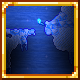
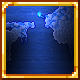
Update to v0.5.3

diff --git a/Config/LightingConfig.cs b/Config/LightingConfig.cs
@@ -15,7 +15,7 @@ namespace FancyLighting.Config
 
         [DefaultValue(true)]
         [Label("Enable Smooth Lighting")]
-        [Tooltip("Toggles whether or not to use smooth lighting\nIf disabled, vanilla lighting visuals are used\nRequires lighting to be set to color")]
+        [Tooltip("Toggles whether to use smooth lighting\nIf disabled, vanilla lighting visuals are used\nRequires lighting to be set to color")]
         public bool UseSmoothLighting
         {
             get
@@ -32,7 +32,7 @@ namespace FancyLighting.Config
 
         [DefaultValue(true)]
         [Label("Blur Light Map")]
-        [Tooltip("Toggles whether or not to blur the light map\nApplies a per-tile blur to the light map before rendering\nSmooths jagged corners in the light map\nDisabling this setting may slightly increase performance")]
+        [Tooltip("Toggles whether to blur the light map\nApplies a per-tile blur to the light map before rendering\nSmooths sharp light transitions\nDisabling this setting may slightly increase performance")]
         public bool UseLightMapBlurring
         {
             get
@@ -70,8 +70,8 @@ namespace FancyLighting.Config
         [DefaultValue(0)]
         [Slider]
         [DrawTicks]
-        [Label("Normal Maps Strength")]
-        [Tooltip("Controls the strength of a simulated normal maps effect\nWhen not 0, tiles have simulated normal maps and appear bumpy\nSet to 0 to disable")]
+        [Label("Simulated Normal Maps Strength")]
+        [Tooltip("Controls the strength of simulated normal maps\nWhen not 0, tiles have simulated normal maps and appear bumpy\nSet to 0 to disable")]
         public int NormalMapsStrength
         {
             get
@@ -87,8 +87,25 @@ namespace FancyLighting.Config
         private int _normalMapsStrength;
 
         [DefaultValue(false)]
+        [Label("Use Higher-Quality Normal Maps")]
+        [Tooltip("Toggles between regular and higher-quality simulated normal map shaders\nWhen enabled, uses a higher-quality normal map simulation\nMay reduce performance when enabled")]
+        public bool QualityNormalMaps
+        {
+            get
+            {
+                return _useQualityNormalMaps;
+            }
+            set
+            {
+                _useQualityNormalMaps = value;
+                ConfigPreset = Preset.CustomPreset;
+            }
+        }
+        private bool _useQualityNormalMaps;
+
+        [DefaultValue(false)]
         [Label("Use Fine Normal Maps")]
-        [Tooltip("Toggles between coarse and fine normal maps\nCoarse normal maps have 2x2 resolution, fine 1x1\nRecommended to enable if using HD textures")]
+        [Tooltip("Toggles between coarse and fine simulated normal maps\nCoarse normal maps have 2x2 resolution, and fine 1x1\nRecommended to enable when using HD textures")]
         public bool FineNormalMaps
         {
             get
@@ -125,7 +142,7 @@ namespace FancyLighting.Config
 
         [DefaultValue(true)]
         [Label("Enable Ambient Occlusion")]
-        [Tooltip("Toggles whether or not to use ambient occlusion\nIf enabled, shadows are added around the edges of foreground tiles in front of background walls\nRequires lighting to be set to color")]
+        [Tooltip("Toggles whether to use ambient occlusion\nIf enabled, tiles produce shadows in front of walls\nRequires lighting to be set to color")]
         public bool UseAmbientOcclusion
         {
             get
@@ -180,7 +197,7 @@ namespace FancyLighting.Config
         [Slider]
         [DrawTicks]
         [Label("Ambient Occlusion Radius")]
-        [Tooltip("Controls the radius of blur used in ambient occlusion\nHigher values correspond to a larger blur radius\nHigher values may degrade performance")]
+        [Tooltip("Controls the radius of blur used in ambient occlusion\nHigher values correspond to a larger blur radius\nHigher values may reduce performance")]
         public int AmbientOcclusionRadius
         {
             get
@@ -221,7 +238,7 @@ namespace FancyLighting.Config
 
         [DefaultValue(true)]
         [Label("Enable Fancy Lighting Engine")]
-        [Tooltip("Toggles whether or not to use a modified lighting engine\nWhen enabled, light is spread more accurately\nShadows should face away from light sources and be more noticeable\nPerformance is significantly reduced in areas with more light sources\nRequires lighting to be set to color")]
+        [Tooltip("Toggles whether to use a modified lighting engine\nWhen enabled, light is spread more accurately\nShadows should face away from light sources and be more noticeable\nPerformance is significantly reduced in areas with more light sources\nRequires lighting to be set to color")]
         public bool UseFancyLightingEngine
         {
             get
@@ -238,7 +255,7 @@ namespace FancyLighting.Config
 
         [DefaultValue(true)]
         [Label("Temporal Optimization")]
-        [Tooltip("Toggles whether or not to use temporal optimization with the fancy lighting engine\nWhen enabled, data from the previous update is used to optimize lighting during the current update\nMakes lighting quicker in more intensly lit areas\nMay sometimes result in a slightly lowered lighting quality")]
+        [Tooltip("Toggles whether to use temporal optimization with the fancy lighting engine\nWhen enabled, uses data from the previous update to optimize lighting calculations\nMakes lighting quicker in more intensly lit areas\nMay sometimes cause lighting quality to be slightly reduced")]
         public bool FancyLightingEngineUseTemporal
         {
             get
@@ -255,7 +272,7 @@ namespace FancyLighting.Config
 
         [DefaultValue(false)]
         [Label("Brighter Lighting")]
-        [Tooltip("Toggles whether or not to make lighting slightly brighter\nWhen disabled, lighting is slightly darker than when using the vanilla lighting engine\nSlightly degrades performance when enabled")]
+        [Tooltip("Toggles whether to make lighting slightly brighter\nWhen disabled, lighting is slightly darker than with vanilla lighting\nMay reduce performance when enabled")]
         public bool FancyLightingEngineMakeBrighter
         {
             get
@@ -296,7 +313,7 @@ namespace FancyLighting.Config
 
         [DefaultValue(true)]
         [Label("Enable Fancy Sky Colors")]
-        [Tooltip("Toggles whether or not to use modified sky colors\nIf disabled, vanilla sky colors are used instead")]
+        [Tooltip("Toggles whether to use modified sky colors\nIf disabled, vanilla sky colors are used instead")]
         public bool UseCustomSkyColors
         {
             get
@@ -336,12 +353,10 @@ namespace FancyLighting.Config
         // Presets
 
         [Header("Presets")]
-        // I really wish enums would use a dropdown menu UI, but sliders are used instead
-        // I couldn't find a dropdown menu config UI built into tModLoader
         [DrawTicks]
         [DefaultValue(Preset.DefaultPreset)]
         [Label("Settings Preset")]
-        [Tooltip("A preset for this settings page can be set here")]
+        [Tooltip("A preset for the above settings may be chosen")]
         public Preset ConfigPreset
         {
             get
@@ -360,6 +375,7 @@ namespace FancyLighting.Config
                     _useLightMapBlurring = true;
                     _lightMapRenderMode = RenderMode.Bilinear;
                     _normalMapsStrength = 0;
+                    _useQualityNormalMaps = false;
                     _useFineNormalMaps = false;
                     _renderOnlyLight = false;
 
@@ -384,6 +400,7 @@ namespace FancyLighting.Config
                     _useLightMapBlurring = true;
                     _lightMapRenderMode = RenderMode.Bicubic;
                     _normalMapsStrength = 0;
+                    _useQualityNormalMaps = false;
                     _useFineNormalMaps = false;
                     _renderOnlyLight = false;
 
@@ -408,6 +425,7 @@ namespace FancyLighting.Config
                     _useLightMapBlurring = true;
                     _lightMapRenderMode = RenderMode.Bilinear;
                     _normalMapsStrength = 0;
+                    _useQualityNormalMaps = false;
                     _useFineNormalMaps = false;
                     _renderOnlyLight = false;
 
@@ -432,6 +450,7 @@ namespace FancyLighting.Config
                     _useLightMapBlurring = true;
                     _lightMapRenderMode = RenderMode.BicubicOverbright;
                     _normalMapsStrength = 100;
+                    _useQualityNormalMaps = true;
                     _useFineNormalMaps = false;
                     _renderOnlyLight = false;
 
@@ -456,6 +475,7 @@ namespace FancyLighting.Config
                     _useLightMapBlurring = true;
                     _lightMapRenderMode = RenderMode.Bilinear;
                     _normalMapsStrength = 0;
+                    _useQualityNormalMaps = false;
                     _useFineNormalMaps = false;
                     _renderOnlyLight = false;
 
@@ -481,6 +501,7 @@ namespace FancyLighting.Config
                         && _useLightMapBlurring
                         && _lightMapRenderMode == RenderMode.Bilinear
                         && _normalMapsStrength == 0
+                        && !_useQualityNormalMaps
                         && !_useFineNormalMaps
                         && !_renderOnlyLight
 
@@ -507,6 +528,7 @@ namespace FancyLighting.Config
                         && _useLightMapBlurring
                         && _lightMapRenderMode == RenderMode.Bicubic
                         && _normalMapsStrength == 0
+                        && !_useQualityNormalMaps
                         && !_useFineNormalMaps
                         && !_renderOnlyLight
 
@@ -533,6 +555,7 @@ namespace FancyLighting.Config
                         && _useLightMapBlurring
                         && _lightMapRenderMode == RenderMode.Bilinear
                         && _normalMapsStrength == 0
+                        && !_useQualityNormalMaps
                         && !_useFineNormalMaps
                         && !_renderOnlyLight
 
@@ -559,6 +582,7 @@ namespace FancyLighting.Config
                         && _useLightMapBlurring
                         && _lightMapRenderMode == RenderMode.BicubicOverbright
                         && _normalMapsStrength == 100
+                        && _useQualityNormalMaps
                         && !_useFineNormalMaps
                         && !_renderOnlyLight
 
@@ -585,6 +609,7 @@ namespace FancyLighting.Config
                         && _useLightMapBlurring
                         && _lightMapRenderMode == RenderMode.Bilinear
                         && _normalMapsStrength == 0
+                        && !_useQualityNormalMaps
                         && !_useFineNormalMaps
                         && !_renderOnlyLight
 

diff --git a/SmoothLighting.cs b/SmoothLighting.cs
@@ -129,6 +129,18 @@ namespace FancyLighting
                     "UpscaleNoFilter"
                 );
 
+            GameShaders.Misc["FancyLighting:QualityNormals"] =
+                new MiscShaderData(
+                    new Ref<Effect>(ModContent.Request<Effect>("FancyLighting/Effects/NormalMap", ReLogic.Content.AssetRequestMode.ImmediateLoad).Value),
+                    "QualityNormals"
+                );
+
+            GameShaders.Misc["FancyLighting:QualityNormalsOverbright"] =
+                new MiscShaderData(
+                    new Ref<Effect>(ModContent.Request<Effect>("FancyLighting/Effects/NormalMap", ReLogic.Content.AssetRequestMode.ImmediateLoad).Value),
+                    "QualityNormalsOverbright"
+                );
+
             GameShaders.Misc["FancyLighting:SimulateNormals"] =
                 new MiscShaderData(
                     new Ref<Effect>(ModContent.Request<Effect>("FancyLighting/Effects/NormalMap", ReLogic.Content.AssetRequestMode.ImmediateLoad).Value),
@@ -170,6 +182,8 @@ namespace FancyLighting
             _ditherMask?.Dispose();
             EffectLoader.UnloadEffect("FancyLighting:UpscaleBicubic");
             EffectLoader.UnloadEffect("FancyLighting:UpscaleNoFilter");
+            EffectLoader.UnloadEffect("FancyLighting:QualityNormals");
+            EffectLoader.UnloadEffect("FancyLighting:QualityNormalsOverbright");
             EffectLoader.UnloadEffect("FancyLighting:SimulateNormals");
             EffectLoader.UnloadEffect("FancyLighting:SimulateNormalsOverbright");
             EffectLoader.UnloadEffect("FancyLighting:Overbright");
@@ -819,6 +833,8 @@ namespace FancyLighting
             bool doScaling)
         {
             bool simulateNormalMaps = !disableNormalMaps && FancyLightingMod.SimulateNormalMaps;
+            bool qualityNormalMaps = FancyLightingMod.UseQualityNormalMaps;
+            bool fineNormalMaps = FancyLightingMod.UseFineNormalMaps;
             bool doBicubicUpscaling = FancyLightingMod.UseBicubicScaling;
             bool doOverbright = FancyLightingMod.DrawOverbright && !FancyLightingMod.RenderOnlyLight;
 
@@ -881,11 +897,25 @@ namespace FancyLighting
                 string shader;
                 if (simulateNormalMaps && doOverbright)
                 {
-                    shader = "FancyLighting:SimulateNormalsOverbright";
+                    if (qualityNormalMaps)
+                    {
+                        shader = "FancyLighting:QualityNormalsOverbright";
+                    }
+                    else
+                    {
+                        shader = "FancyLighting:SimulateNormalsOverbright";
+                    }
                 }
                 else if (simulateNormalMaps)
                 {
-                    shader = "FancyLighting:SimulateNormals";
+                    if (qualityNormalMaps)
+                    {
+                        shader = "FancyLighting:QualityNormals";
+                    }
+                    else
+                    {
+                        shader = "FancyLighting:SimulateNormals";
+                    }
                 }
                 else if (doOverbright && doScaling)
                 {
@@ -896,14 +926,14 @@ namespace FancyLighting
                     shader = "FancyLighting:Overbright";
                 }
 
-                float normalMapRadius = background ? 40f : 25f;
+                float normalMapRadius = background ? 35f : qualityNormalMaps ? 30f : 25f;
                 normalMapRadius *= FancyLightingMod.NormalMapsStrength;
-
-                float normalMapResolution = FancyLightingMod.UseFineNormalMaps ? 1f : 2f;
-                if (FancyLightingMod.UseFineNormalMaps)
+                if (fineNormalMaps)
                 {
                     normalMapRadius *= 1.25f;
                 }
+
+                float normalMapResolution = fineNormalMaps ? 1f : 2f;
 
                 GameShaders.Misc[shader]
                     .UseShaderSpecificData(new Vector4(
@@ -911,7 +941,10 @@ namespace FancyLighting
                         normalMapResolution / worldTarget.Height,
                         normalMapRadius / target2.Width,
                         normalMapRadius / target2.Height))
-                    .UseColor((float)target2.Width / worldTarget.Width, (float)target2.Height / worldTarget.Height, 0f)
+                    .UseColor(
+                        (float)target2.Width / worldTarget.Width,
+                        (float)target2.Height / worldTarget.Height,
+                        0f)
                     .Apply(null);
                 Main.instance.GraphicsDevice.Textures[1] = worldTarget;
                 Main.instance.GraphicsDevice.SamplerStates[1] = SamplerState.PointClamp;

diff --git a/FancyLightingMod.cs b/FancyLightingMod.cs
@@ -18,6 +18,7 @@ namespace FancyLighting
         internal static bool _blurLightMap;
         internal static Config.RenderMode _lightMapRenderMode;
         internal static int _normalMapsStrength;
+        internal static bool _useQualityNormalMaps;
         internal static bool _useFineNormalMaps;
         internal static bool _renderOnlyLight;
 
@@ -140,7 +141,15 @@ namespace FancyLighting
         {
             get
             {
-                return _normalMapsStrength != 0;
+                return _normalMapsStrength > 0;
+            }
+        }
+
+        public static bool UseQualityNormalMaps
+        {
+            get
+            {
+                return _useQualityNormalMaps;
             }
         }
 

diff --git a/FancyLightingModSystem.cs b/FancyLightingModSystem.cs
@@ -35,6 +35,7 @@ namespace FancyLighting
             FancyLightingMod._blurLightMap = _configInstance.UseLightMapBlurring;
             FancyLightingMod._lightMapRenderMode = _configInstance.LightMapRenderMode;
             FancyLightingMod._normalMapsStrength = _configInstance.NormalMapsStrength;
+            FancyLightingMod._useQualityNormalMaps = _configInstance.QualityNormalMaps;
             FancyLightingMod._useFineNormalMaps = _configInstance.FineNormalMaps;
             FancyLightingMod._renderOnlyLight = _configInstance.RenderOnlyLight;
 

diff --git a/Config/RenderMode.cs b/Config/RenderMode.cs
@@ -1,7 +1,5 @@
 using Terraria.ModLoader.Config;
 
-using System.ComponentModel;
-
 namespace FancyLighting.Config
 {
     public enum RenderMode : int

diff --git a/README.md b/README.md
@@ -7,19 +7,8 @@ This mod is not endorsed by the creators of either Terraria or tModLoader.
 
 ### Latest Version
 
-**v0.5.2.4 (2022-11-15)**
-- Made unloading effects safer
-
-**v0.5.2.3 (2022-10-28)**
-- Fixed a bug with the overbright rendering of tile entities introduced in v0.5.2.2
-
-**v0.5.2.2 (2022-10-28)**
-- Fixed smooth lighting bugs that occurred when running the game at a high resolution
-
-**v0.5.2.1 (2022-10-21)**
-- Fixed a bug with glowing tiles
-
-**v0.5.2 (2022-10-21)**
-- Tweaked normal maps
-- Added a new option to toggle between coarse and fine normal maps
-- Normal map settings may need to be adjusted after this update to look the same
+**v0.5.3 (2023-01-17)**
+- Added a higher-quality normal map simulation option
+- Tweaked simulated normal maps slightly
+- Updated some config tooltips
+- Updated the mod icon
